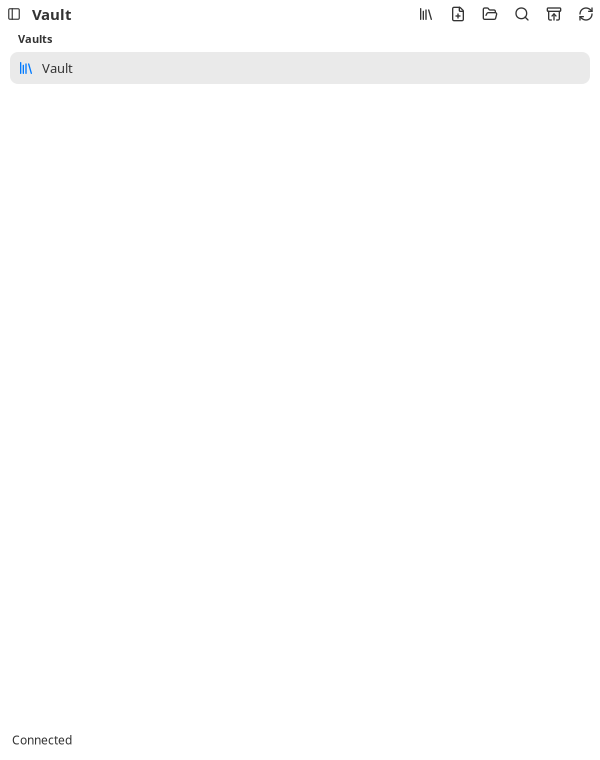
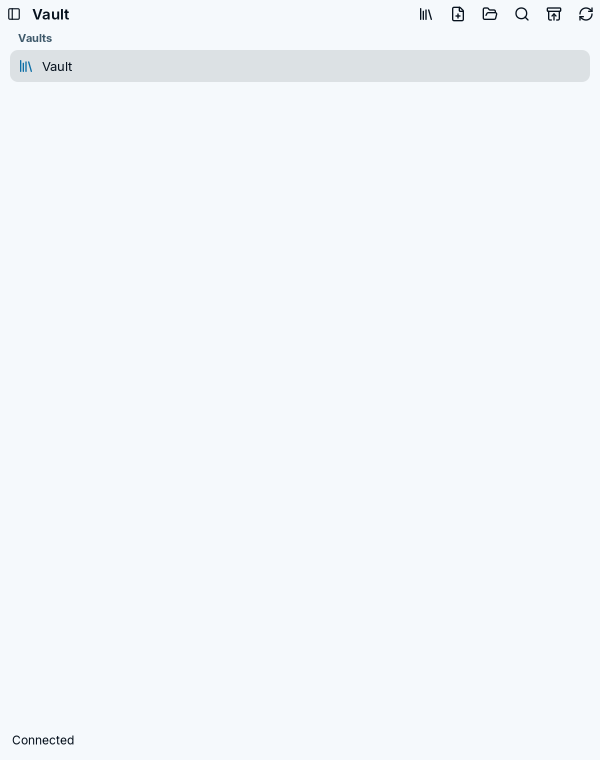
feat(nsgo): draw the client in the Frostyard themes
Take frostui's workspaceui v0.2.0. The client's root calls
workspaceui.Apply, which sets the Frostyard and Frostyard light themes and
registers the kit's bundled Inter, and the window's root view is
workspaceui.Frame.

On a desktop the vault manager has an Appearance row, the kit's System,
Light and Dark choice. The client keeps the choice in its storage under
"appearance" and shows it again at the next start. The Lodge build has no
such row: Lodge sets its appearance.

Retake the 19 kept pictures in the new look and add 3 dark ones (live
preview, the move dialog, the vault manager). The kit's compact shell now
paints its ground, so dark-narrow-note.png is readable.

diff --git a/cmd/frostnotes-nsgo/workspace_test.go b/cmd/frostnotes-nsgo/workspace_test.go
@@ -147,6 +147,39 @@ func startVault(t *testing.T, files map[string]string, width, height core.Points
 	return nsgotest.Start(t, root, append([]nsgotest.Option{nsgotest.Size(width, height)}, options...)...), vault
 }
 
+// The vault manager's choice of appearance shows at once and is kept on the
+// device.
+func TestAppearanceChoiceIsKept(t *testing.T) {
+	app, _ := startWorkspace(t)
+	app.Press("label:Manage vaults")
+	app.WaitFor("role:tab Dark", 5*time.Second)
+	app.Press("role:tab Dark")
+	if app.Appearance != core.AppearanceDark {
+		t.Fatalf("the app asked for appearance %v after Dark, want dark", app.Appearance)
+	}
+	if got, _ := app.Storage().GetItem("appearance"); got != "dark" {
+		t.Fatalf("the kept appearance is %q, want dark", got)
+	}
+	app.Press("role:tab System")
+	if _, kept := app.Storage().GetItem("appearance"); kept || app.Appearance != core.AppearanceSystem {
+		t.Fatalf("after System the device keeps a choice (%v) or the app asks for %v", kept, app.Appearance)
+	}
+}
+
+// A start shows the appearance the device kept.
+func TestKeptAppearanceShowsAtStart(t *testing.T) {
+	app, _ := startVault(t, map[string]string{"First.md": "First\n"}, 1150, 760, nsgotest.Storage(map[string]string{"appearance": "light"}))
+	app.WaitFor("label:First", 10*time.Second)
+	if app.Appearance != core.AppearanceLight {
+		t.Fatalf("the app asked for appearance %v at its start, want light", app.Appearance)
+	}
+	app.Press("label:Manage vaults")
+	app.WaitFor("role:tab Light", 5*time.Second)
+	if !app.Find("role:tab Light").Props.Selected {
+		t.Fatalf("the choice does not show Light as chosen\n%s", app.Dump())
+	}
+}
+
 func TestSwitchNoteDuringAutosave(t *testing.T) {
 	app, vault := startWorkspace(t)
 	app.Press("label:First")

diff --git a/cmd/frostnotes-nsgo/pictures_test.go b/cmd/frostnotes-nsgo/pictures_test.go
@@ -139,17 +139,29 @@ func TestPicturesOfANarrowWindow(t *testing.T) {
 	app.Screenshot("narrow-navigation")
 }
 
-// The same note in the dark appearance, wide and narrow.
+// The same views in Frostyard, the dark theme: a note in source and in live
+// preview, a dialog with a field, and the vault manager, which holds the
+// choice of appearance.
 func TestPicturesInDark(t *testing.T) {
-	for _, picture := range []struct {
-		name  string
-		width core.Points
-	}{{"dark-note-source", pictureWidth}, {"dark-narrow-note", narrowWidth}} {
-		t.Run(picture.name, func(t *testing.T) {
-			app := pictureWorkspace(t, picture.width, true)
-			app.Press("label:Quince")
-			app.WaitFor("text:Saved", 10*time.Second)
-			app.Screenshot(picture.name)
-		})
-	}
+	app := pictureWorkspace(t, pictureWidth, true)
+	app.Press("label:Quince")
+	app.WaitFor("text:Saved", 10*time.Second)
+	app.Screenshot("dark-note-source")
+	app.Press("label:Live preview")
+	app.WaitFor("label:Edit line 1", 5*time.Second)
+	app.Screenshot("dark-note-live-preview")
+	app.Press("label:Rename or move note")
+	app.WaitFor("label:Destination path", 5*time.Second)
+	app.Screenshot("dark-dialog-move-note")
+	app.Press("label:Cancel")
+	app.Press("label:Manage vaults")
+	app.WaitFor("label:Create new vault", 5*time.Second)
+	app.Screenshot("dark-vault-manager")
+}
+
+func TestPicturesOfANarrowWindowInDark(t *testing.T) {
+	app := pictureWorkspace(t, narrowWidth, true)
+	app.Press("label:Quince")
+	app.WaitFor("text:Saved", 10*time.Second)
+	app.Screenshot("dark-narrow-note")
 }

diff --git a/cmd/frostnotes-nsgo/main.go b/cmd/frostnotes-nsgo/main.go
@@ -60,11 +60,21 @@ type workspace struct {
 	connection, problem                      *core.Signal[string]
 	action                                   *core.Signal[string]
 	preview, live                            *core.Signal[bool]
+	appearance                               *core.Signal[core.Appearance]
 	catalogRequest, filesRequest, navigation int
 }
 
 func root(cx *core.Scope) core.Node {
 	cx.SetTitle("FrostNotes")
+	// The Frostyard look and the bundled Inter. A font the platform refuses
+	// leaves the text in the system's face.
+	_ = workspaceui.Apply(cx)
+	appearance := core.AppearanceSystem
+	if ownAppearance {
+		// Lodge sets the web build's appearance; a desktop keeps its own.
+		appearance = savedAppearance(cx)
+		cx.SetAppearance(appearance)
+	}
 	w := &workspace{
 		syncInfo: core.NewSignal(cx, (*api.SyncStatus)(nil)),
 		removed:  make(map[int64][]string),
@@ -82,6 +92,7 @@ func root(cx *core.Scope) core.Node {
 		action:     core.NewSignal(cx, ""),
 		preview:    core.NewSignal(cx, false),
 		live:       core.NewSignal(cx, false),
+		appearance: core.NewSignal(cx, appearance),
 	}
 	w.session.OnChange(func() {
 		if w.session.State() == session.Connected {
@@ -136,7 +147,7 @@ func root(cx *core.Scope) core.Node {
 			return explorer
 		})},
 	}
-	return core.View{Style: ui.FillRest, Children: []core.Node{shell, core.Dynamic(w.notice), core.Dynamic(w.noteDialog)}}
+	return workspaceui.Frame(shell, core.Dynamic(w.notice), core.Dynamic(w.noteDialog))
 }
 
 func (w *workspace) title() string {

diff --git a/cmd/frostnotes-nsgo/appearance.go b/cmd/frostnotes-nsgo/appearance.go
@@ -1,0 +1,44 @@
+package main
+
+import (
+	"github.com/frostyard/frostui/workspaceui"
+	"github.com/nsgo-dev/nsgo/core"
+	"github.com/nsgo-dev/nsgo/ui"
+)
+
+// The choice of appearance is this device's, not a vault's: it lives in the
+// client's storage, not in notesd. No entry is the system's.
+const appearanceKey = "appearance"
+
+func savedAppearance(cx *core.Scope) core.Appearance {
+	switch v, _ := cx.Storage().GetItem(appearanceKey); v {
+	case "light":
+		return core.AppearanceLight
+	case "dark":
+		return core.AppearanceDark
+	}
+	return core.AppearanceSystem
+}
+
+// saveAppearance keeps the choice the vault manager made. The kit's control
+// has already shown it.
+func (w *workspace) saveAppearance(a core.Appearance) {
+	w.appearance.Set(a)
+	var err error
+	switch a {
+	case core.AppearanceLight:
+		err = w.cx.Storage().SetItem(appearanceKey, "light")
+	case core.AppearanceDark:
+		err = w.cx.Storage().SetItem(appearanceKey, "dark")
+	default:
+		w.cx.Storage().RemoveItem(appearanceKey)
+	}
+	if err != nil {
+		w.problem.Set(err.Error())
+	}
+}
+
+// appearanceRow is the System, Light and Dark choice under its label.
+func (w *workspace) appearanceRow() core.Node {
+	return workspaceui.Stack(core.Text{Content: "Appearance", Style: ui.TypeCaption}, workspaceui.AppearanceChoice{Value: w.appearance.Get, OnChange: w.saveAppearance})
+}

diff --git a/cmd/frostnotes-nsgo/dial_web.go b/cmd/frostnotes-nsgo/dial_web.go
@@ -91,6 +91,10 @@ func guardBrowserDraft(cx *core.Scope, dirty func() bool) {
 	cx.Cleanup(func() { window.Call("removeEventListener", "beforeunload", handler); handler.Release() })
 }
 
+// ownAppearance reports whether the client keeps its own choice of
+// appearance. Lodge sets the web build's (app/src/nsgo-lodge.ts).
+const ownAppearance = false
+
 // Lodge supplies its own vault catalog and manages the server's filesystem.
 func (w *workspace) vaultActions() []core.Node                 { return nil }
 func (w *workspace) vaultWelcome() core.Node                   { return nil }

diff --git a/cmd/frostnotes-nsgo/vaults_native.go b/cmd/frostnotes-nsgo/vaults_native.go
@@ -112,6 +112,7 @@ func (w *workspace) vaultDialog(cx *core.Scope, action string) core.Node {
 			keep.Set(b.KeepRunning)
 		}})
 	}
+	nodes = append(nodes, w.appearanceRow())
 	return ui.Dialog{Title: manageVaults, Open: func() bool { return true }, OnOpenChange: w.closeDialog, Children: nodes}
 }
 

diff --git a/cmd/frostnotes-nsgo/dial_native.go b/cmd/frostnotes-nsgo/dial_native.go
@@ -22,4 +22,8 @@ func platformDialer() session.Dialer {
 	}
 }
 
+// ownAppearance reports whether the client keeps its own choice of
+// appearance. A desktop does.
+const ownAppearance = true
+
 func guardBrowserDraft(*core.Scope, func() bool) {}

diff --git a/docs/design/app.md b/docs/design/app.md
@@ -52,9 +52,11 @@ is in [specs/ui.md](../specs/ui.md#in-the-native-desktop-app).
 
 [ADR-0047](../adr/0047-use-the-shared-nsgo-editor-on-linux-and-lodge.md) promotes this editor to the Linux and Lodge defaults. The Flatpak also includes MyGo for workflows such as revision history.
 
-The default Linux and Lodge app uses the versioned workspace shell, file explorer and notices of frostui’s `workspaceui` module (`github.com/frostyard/frostui/workspaceui`). FrostNotes supplies vaults and note paths to these components. Its source editor binds to the existing Go document model, which owns the base hash, line endings, autosave, retries and conflict versions. The session routes remote edits to the open document on either platform. A refused base exposes the recovered draft for copying. [ADR-0046](../adr/0046-test-a-shared-nsgo-source-editor.md) · [Run the preview](../development.md#try-the-shared-nsgo-editor)
+The default Linux and Lodge app uses the versioned workspace shell, file explorer and notices of frostui’s `workspaceui` module (`github.com/frostyard/frostui/workspaceui`, v0.2.0). FrostNotes supplies vaults and note paths to these components. Its source editor binds to the existing Go document model, which owns the base hash, line endings, autosave, retries and conflict versions. The session routes remote edits to the open document on either platform. A refused base exposes the recovered draft for copying. [ADR-0046](../adr/0046-test-a-shared-nsgo-source-editor.md) · [Run the preview](../development.md#try-the-shared-nsgo-editor)
 
 In the NSGo preview, **Live preview** renders headings, tasks and wiki links in the note. Clicking a line reveals its original Markdown in place. The shared scanner supplies byte ranges, and edits apply to the same document as source mode. Clicking a task changes its marker. Clicking a wiki link resolves the target through notesd. Undo and redo operate on local edits within the current preview. A remote text change clears that history. See [the live-preview design decision](../adr/0039-live-preview-is-replacements-over-the-source.md).
+
+The client draws the kit's Frostyard look: Frostyard in the dark appearance and Frostyard light in the light one, with its text in Inter, which the kit bundles. `root` calls `workspaceui.Apply` before it builds a view, and the window's root view is `workspaceui.Frame`. Nothing else of the client's layout or controls changed with the look. On a desktop the vault manager has an Appearance row, the kit's System, Light and Dark choice. A press shows the choice at once and keeps it in the client's storage under `appearance` (`light` or `dark`; no entry is the system's), and a start shows the kept choice (`appearance.go`). The Lodge build has no such row and keeps nothing: Lodge sets its appearance (`app/src/nsgo-lodge.ts`). The look is frostmail's [ADR-0062](https://github.com/frostyard/frostmail/blob/main/docs/adr/0062-give-the-nsgo-client-the-frostyard-look-from-the-shared-kit.md) and [plan 0016](https://github.com/frostyard/frostmail/blob/main/docs/plans/0016-a-shared-look-for-the-nsgo-apps.md); the kept pictures are [below](#the-nsgo-clients-live-suite).
 
 On Linux, the vault manager creates a folder, registers an existing folder, or joins a hub vault. Pairing shows the approval code issued by notesd and waits for the hub operator. Both desktop clients use the same pairing, retry and cancellation logic. Removing a registration leaves its files on disk. The desktop status shows the selected vault’s sync state. The Flatpak applies its background preference when the last frontend exits. Lodge displays the server’s registered vaults.
 
@@ -1070,12 +1072,14 @@ a record holds the app ID `org.frostyard.Frostnotes`, the version, component
 
 The NSGo client (`cmd/frostnotes-nsgo`,
 [ADR-0047](../adr/0047-use-the-shared-nsgo-editor-on-linux-and-lodge.md))
-has one suite, run two ways. It is Frostnotes' part of Phase 0.5 of
+has one suite, run two ways. It began as Frostnotes' part of Phase 0.5 of
 frostmail's
 [plan 0016](https://github.com/frostyard/frostmail/blob/main/docs/plans/0016-a-shared-look-for-the-nsgo-apps.md):
-live UI tests and pictures of today's look, before the look changes.
+live UI tests and pictures of the look, kept before the look changed. The
+pictures now show the kit's Frostyard look
+([above](#shared-nsgo-editor-preview)).
 
-- **The suite:** 4 workflows (`workspace_test.go`, `vaults_test.go`) and 8
+- **The suite:** 6 workflows (`workspace_test.go`, `vaults_test.go`) and 9
   picture tours (`pictures_test.go`), with the build tags `linux` and
   `integration`. NSGo's `nsgotest` drives the client by label and text.
   Each test starts a real notesd on temp data; the tours' vault is 6
@@ -1116,25 +1120,39 @@ live UI tests and pictures of today's look, before the look changes.
     steps there.
 
   No test skips on a target.
-- **The kept pictures,** `cmd/frostnotes-nsgo/comparison/linux`: 19 PNGs,
-  1160 by 760 and, for a narrow window, 600 by 760. They show no note
-  selected, a note in source and in live preview, a line under edit, the 4
-  note dialogs, quick open with and without a query, vault search, the
-  vault manager and its join form, a notesd with no vault, the narrow
-  tree, note and navigation, and a note in the dark appearance, wide and
-  narrow. `make nsgo-pictures` takes them again. A change of the look
-  commits its changed pictures. No test compares pixels: fonts differ
-  between hosts.
+- **The kept pictures,** `cmd/frostnotes-nsgo/comparison/linux`: 22 PNGs,
+  1160 by 760 and, for a narrow window, 600 by 760. 17 are in Frostyard
+  light: no note selected, a note in source and in live preview, a line
+  under edit, the 4 note dialogs, quick open with and without a query,
+  vault search, the vault manager and its join form, a notesd with no
+  vault, and the narrow tree, note and navigation. 5, named `dark-`, are
+  in Frostyard: a note in source and in live preview, the dialog that
+  moves a note, the vault manager and the narrow note.
+  `make nsgo-pictures` takes them again. A change of the look commits its
+  changed pictures. No test compares pixels.
+  - The look they show, read from the pictures of 2026-11-24. Light: the
+    navigation is `#e8f0f6`, the narrow window's ground `#f5f9fc`, the
+    accent `#0b6ea6`, and the source field `#ffffff`. Dark: `#081b2d`,
+    `#06111d`, `#47b8ef` and `#061826`. The content pane of a wide window
+    is `#f4f9fc` in light and `#06121e` in dark, 1 step from the ground's
+    color.
+  - The text is the kit's bundled Inter. With the host's own Inter hidden
+    from fontconfig (a `FONTCONFIG_FILE` that rejects the family), a take
+    gave the same bytes for all 22 as a take without it; with it hidden
+    and no font registered, the text was Noto Sans (2026-11-24, on 1
+    host).
   - The tours pin light or dark (`nsgotest.Environment`). Without it a
     target takes the appearance from GTK's settings, which follow the
     host.
   - `testdata/xdg/gtk-4.0/settings.ini` stops the caret's blinking. With
     a caret that blinked, 4 or 5 pictures differed between 2 takes, each
     in 1 column of 18 or 20 pixels. Without the blinking, 3 takes on 1
-    host gave the same bytes for all 19 (2026-11-24).
-  - `dark-narrow-note.png` shows a compact window in the dark appearance:
-    the area around the editor is white, and the title, the status and
-    the icons on it have the dark appearance's light colors.
+    host gave the same bytes for all 19 pictures of the look before
+    Frostyard, and 2 takes for all 22 of this one (2026-11-24).
+  - `dark-narrow-note.png` shows a compact window in the dark appearance.
+    With the kit at v0.1.0 the area around the editor was white under the
+    dark appearance's light text. The kit's compact shell paints its
+    ground since v0.2.0: the picture's ground is `#06111d`.
 - **The web target** is not run. The test files are Linux-only, and each
   test starts a notesd with `os/exec`, which a browser cannot. Lodge's
   browser path stays with `make nsgo-lodge-evidence`

diff --git a/AGENTS.md b/AGENTS.md
@@ -242,6 +242,13 @@ file a step names before writing its frostnotes counterpart.
   `github.com/bketelsen/mygo` (the v0.10.0 editor-blocks port from
   egoist/mygo#1662, with line-style strike-through) until those changes are in
   a release (plan 0009).
+  The NSGo client's own module (`cmd/frostnotes-nsgo/go.mod`) also requires
+  `github.com/frostyard/frostui/workspaceui` v0.2.0, the kit it shares with
+  FrostMail and PocketGo (a module of its own in frostui, tags
+  `workspaceui/vX.Y.Z`), and `github.com/nsgo-dev/nsgo` v0.3.0, which
+  frostyard does not own. The client draws the kit's Frostyard themes, in
+  its bundled Inter, and a desktop keeps its choice of appearance
+  ([design/app.md](docs/design/app.md#shared-nsgo-editor-preview)).
   Run `make flatpak-sources` after a bump: it rewrites
   `packaging/flatpak/go-sources.json`.
 - **App packages** (`app/package.json`): `@frostyard/lodge-client` as
